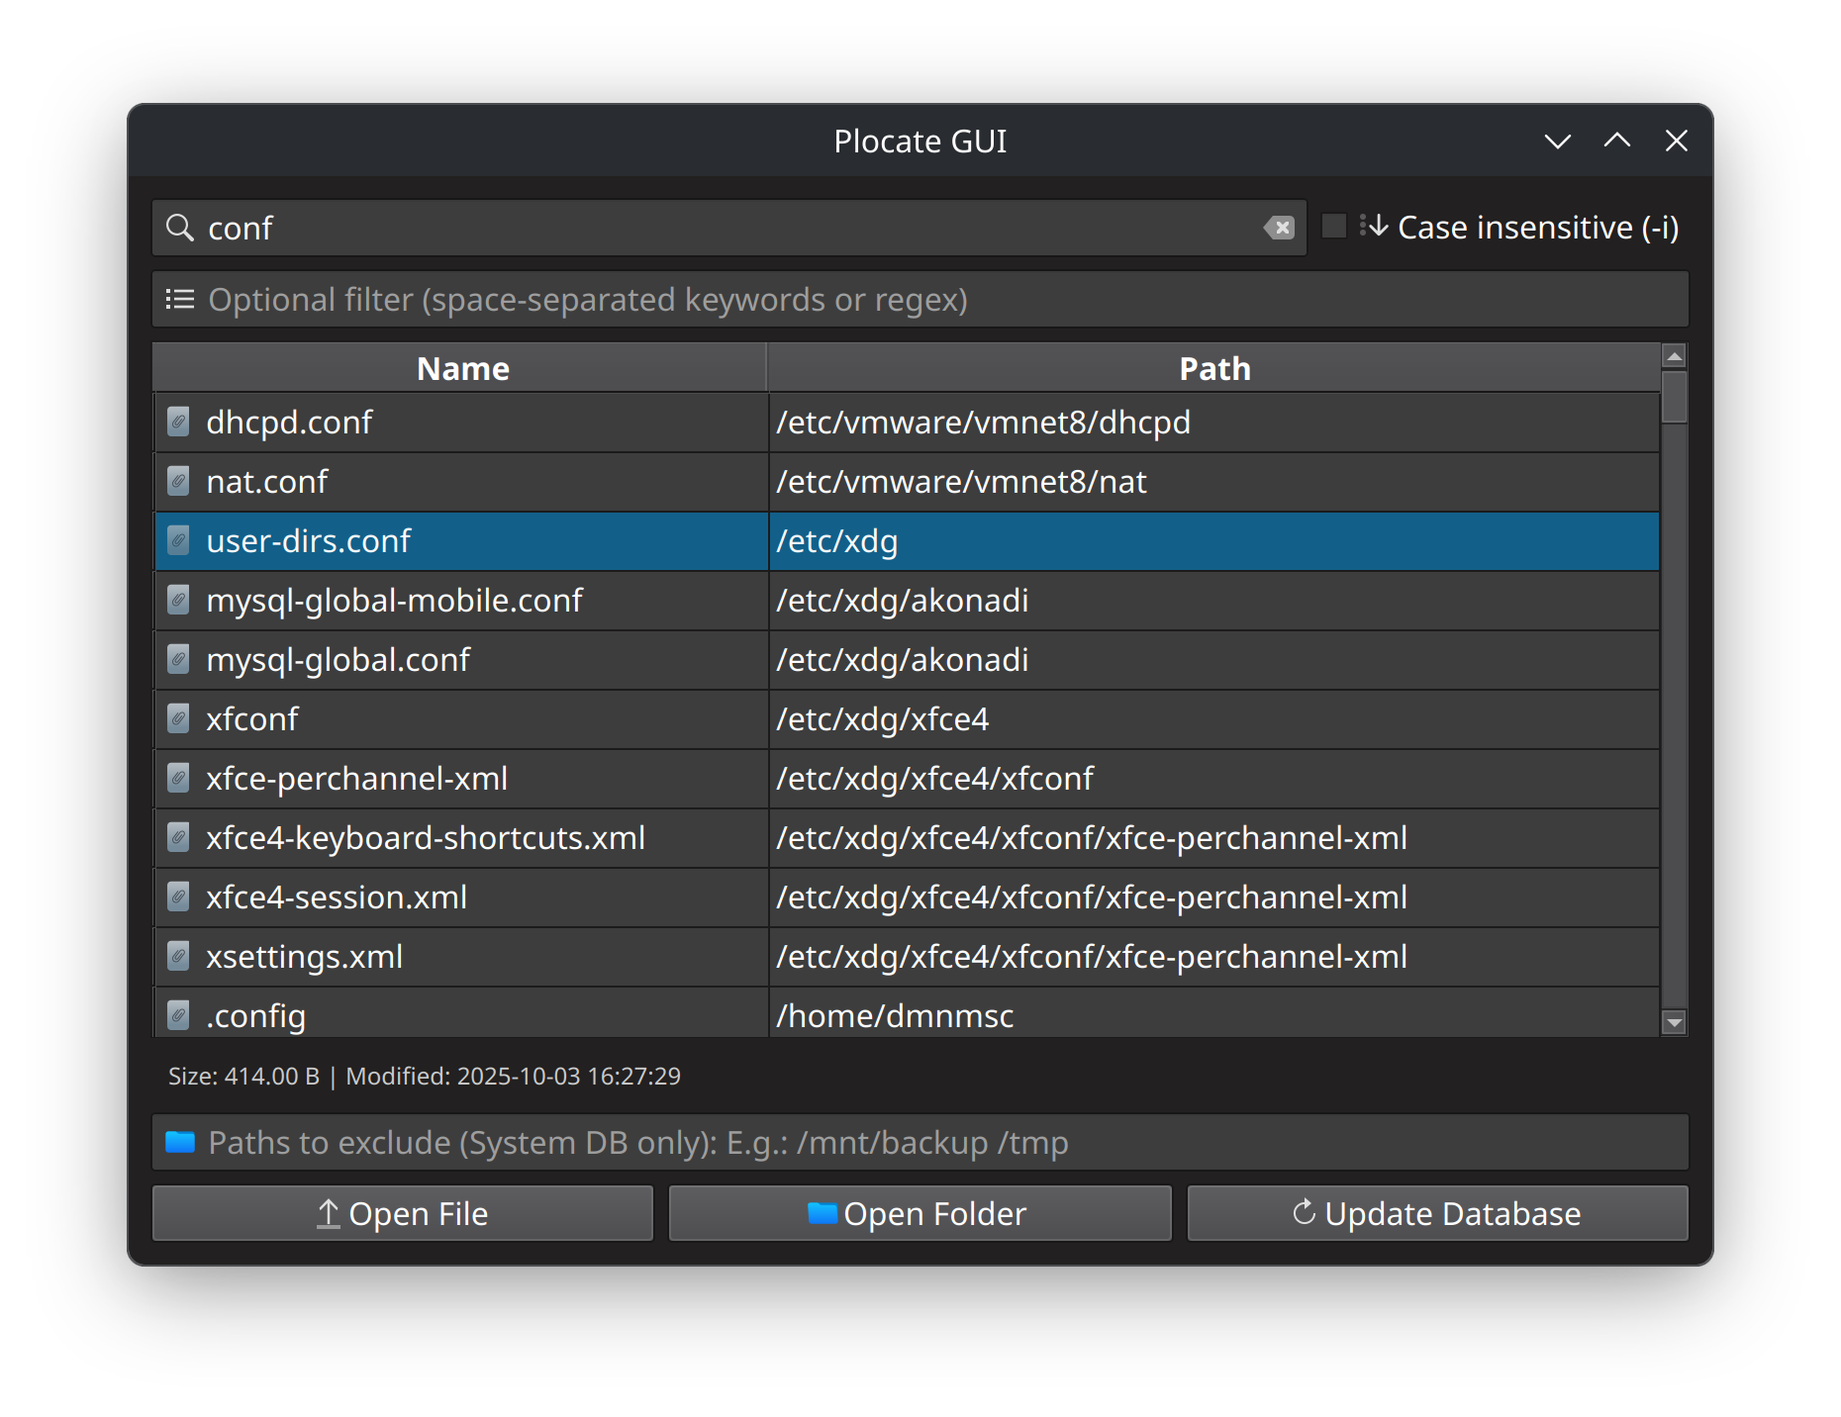
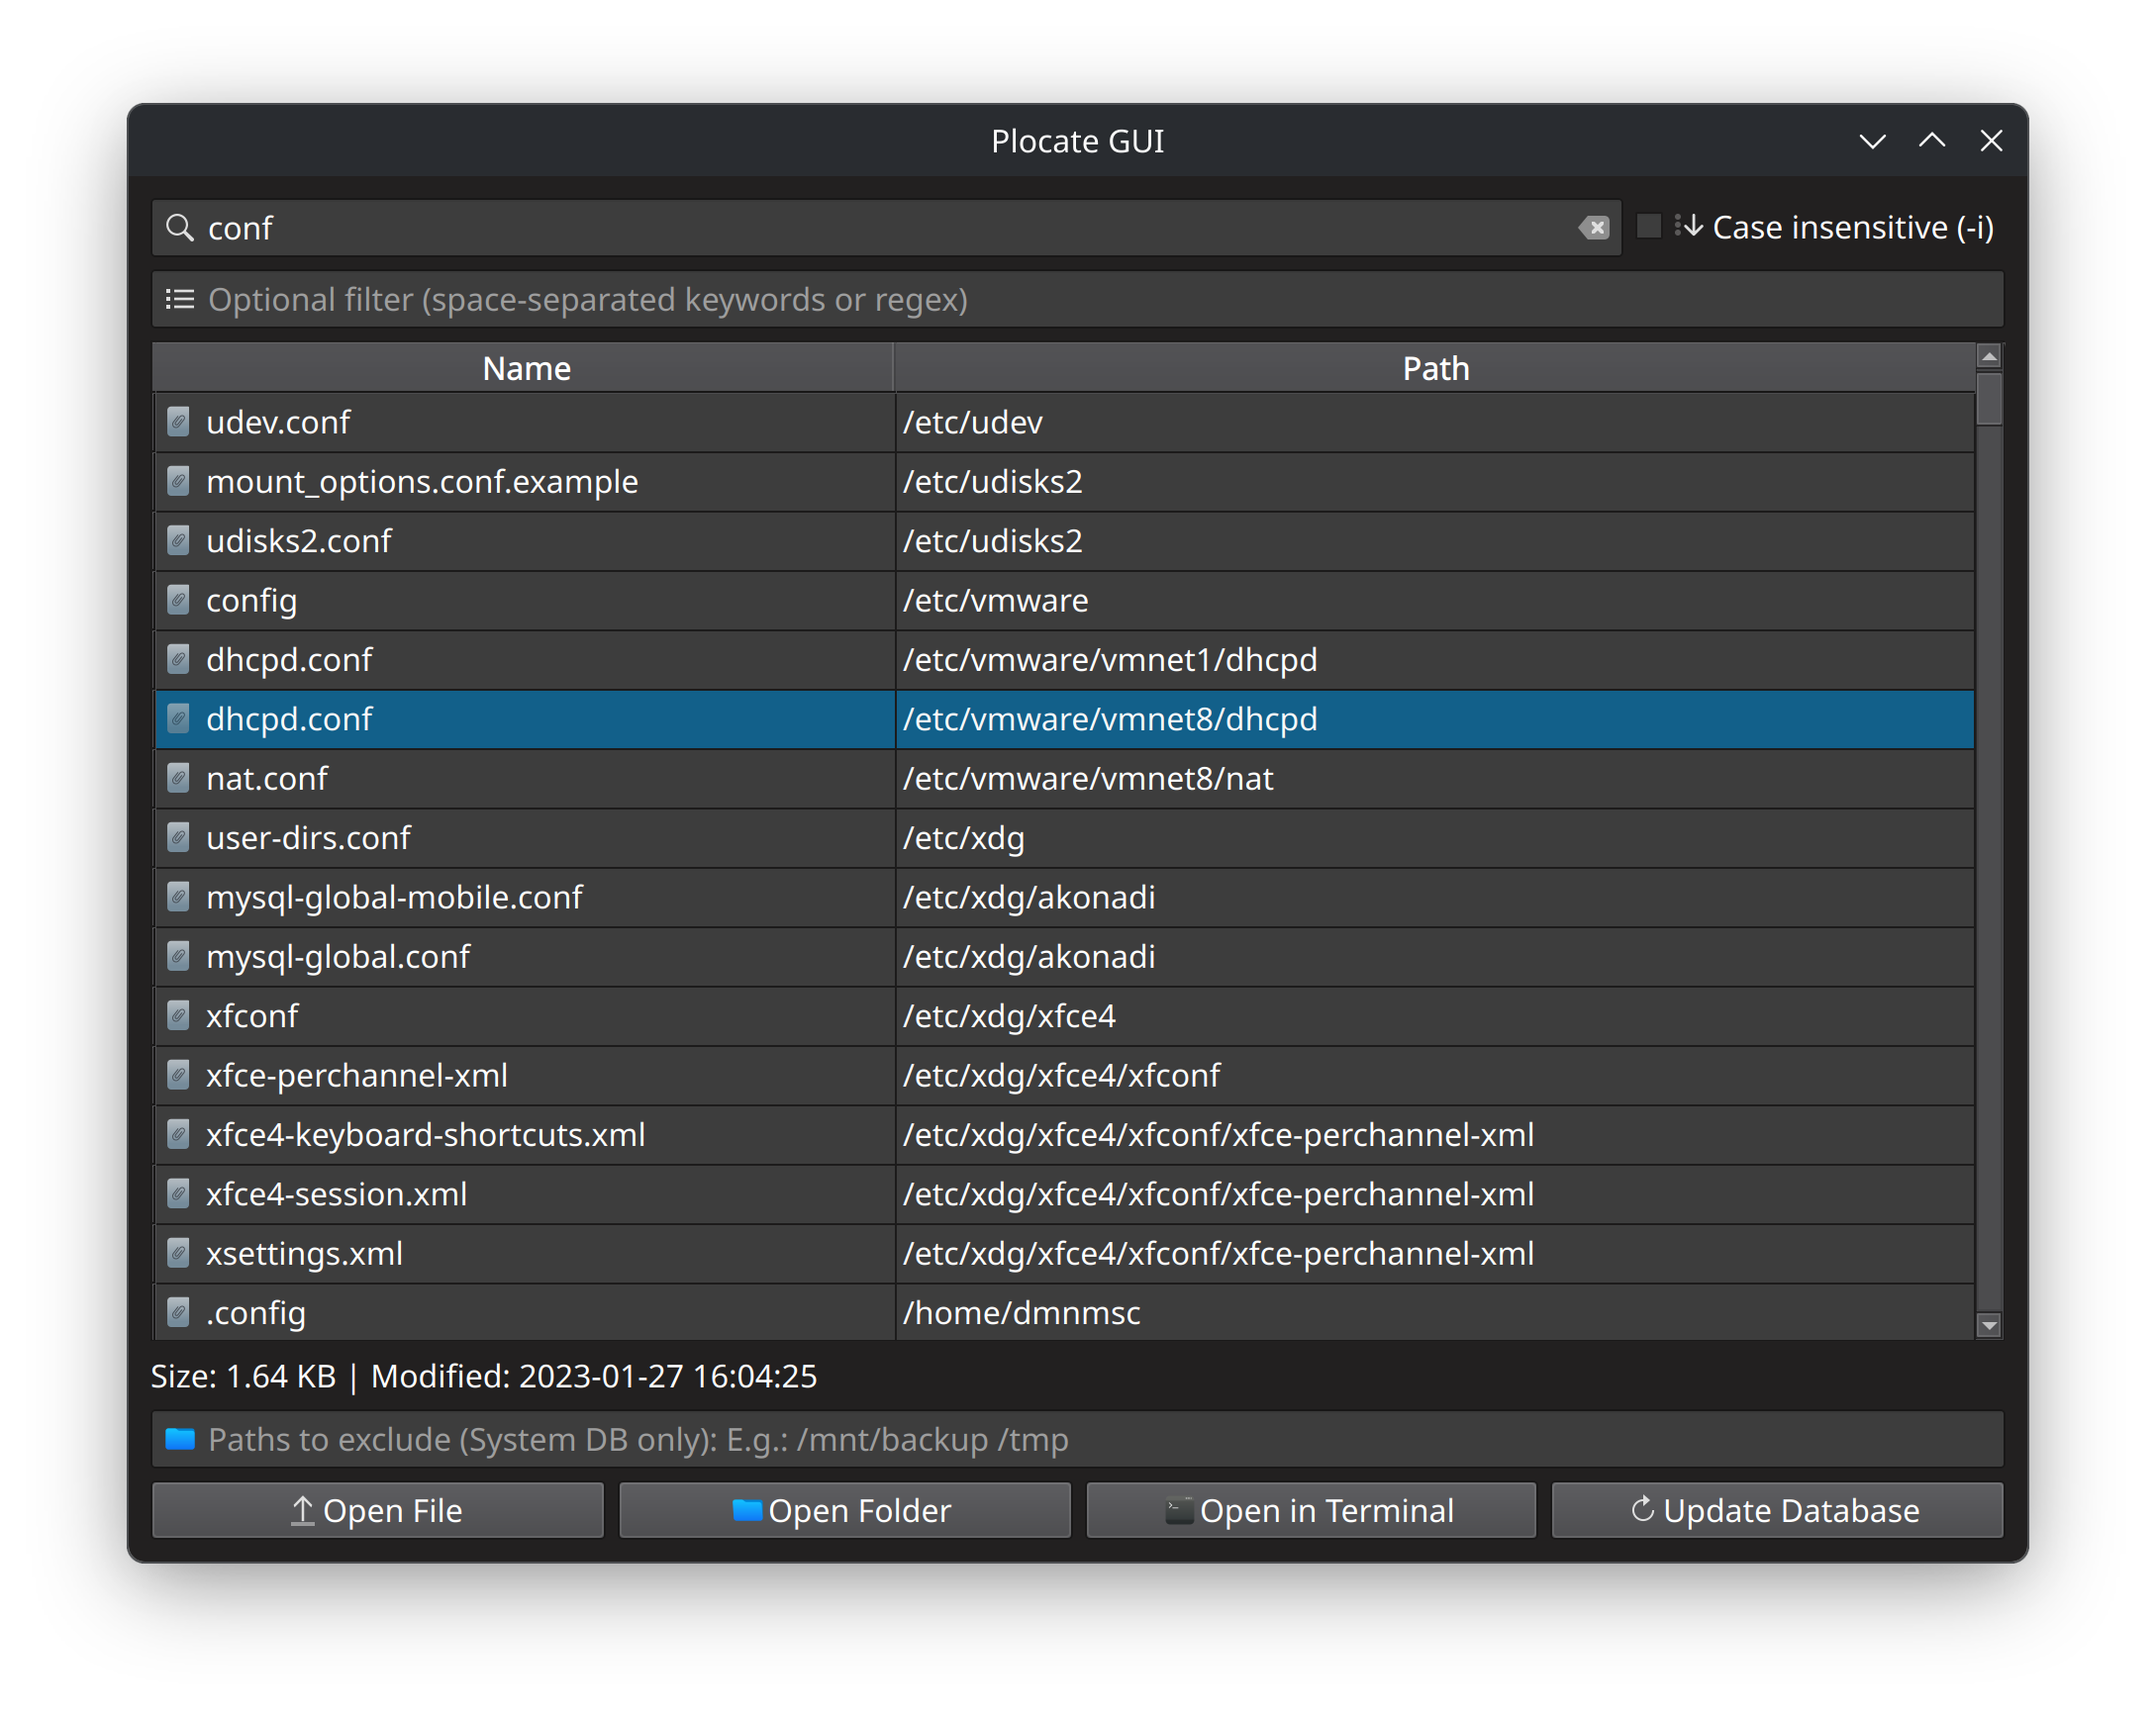
feat(ui): Adjust window size to 800x700 for better HiDPI scaling and visibility

diff --git a/plocate-gui.py b/plocate-gui.py
@@ -285,7 +285,7 @@ class PlocateGUI(QWidget):
     def __init__(self):
         super().__init__()
         self.setWindowTitle(_("Plocate GUI"))
-        self.resize(800, 550)
+        self.resize(800, 700)
 
         # New: Initialize ThreadPool for non-blocking operations
         self.threadpool = QThreadPool()
